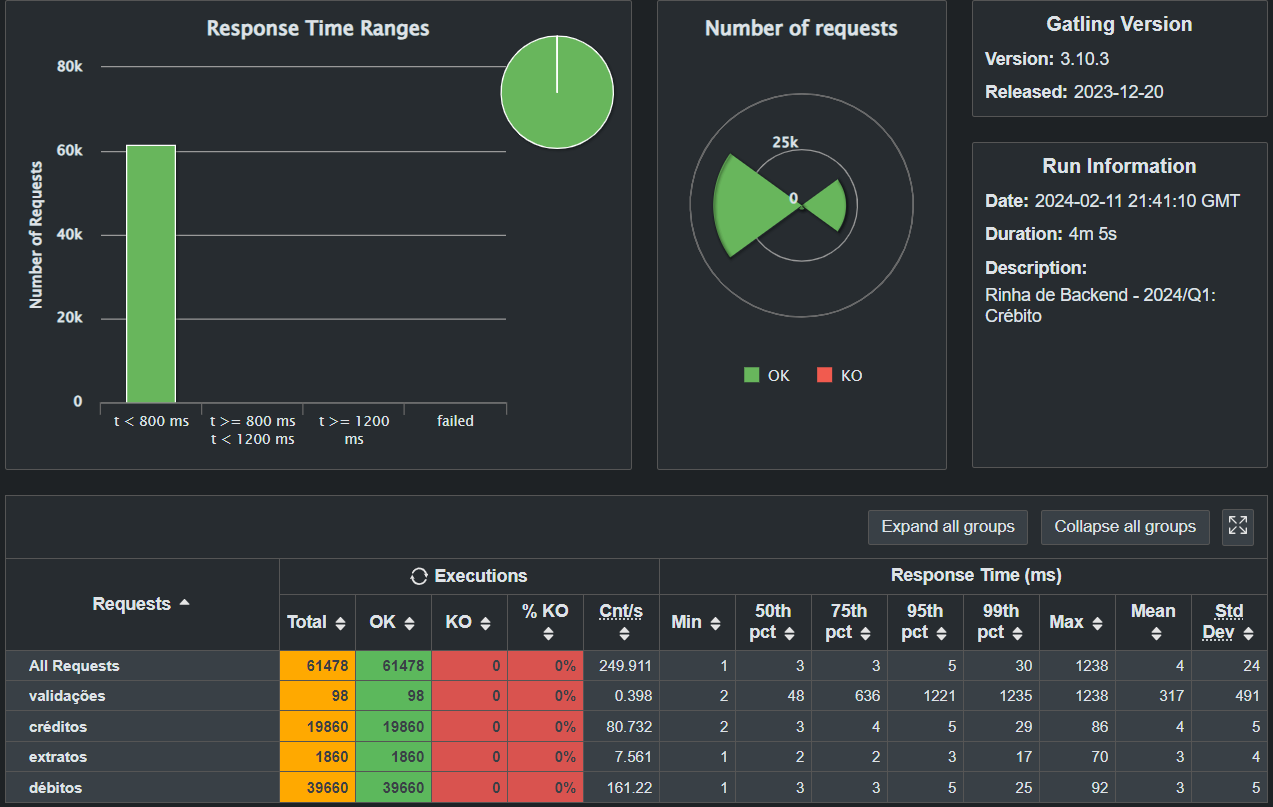
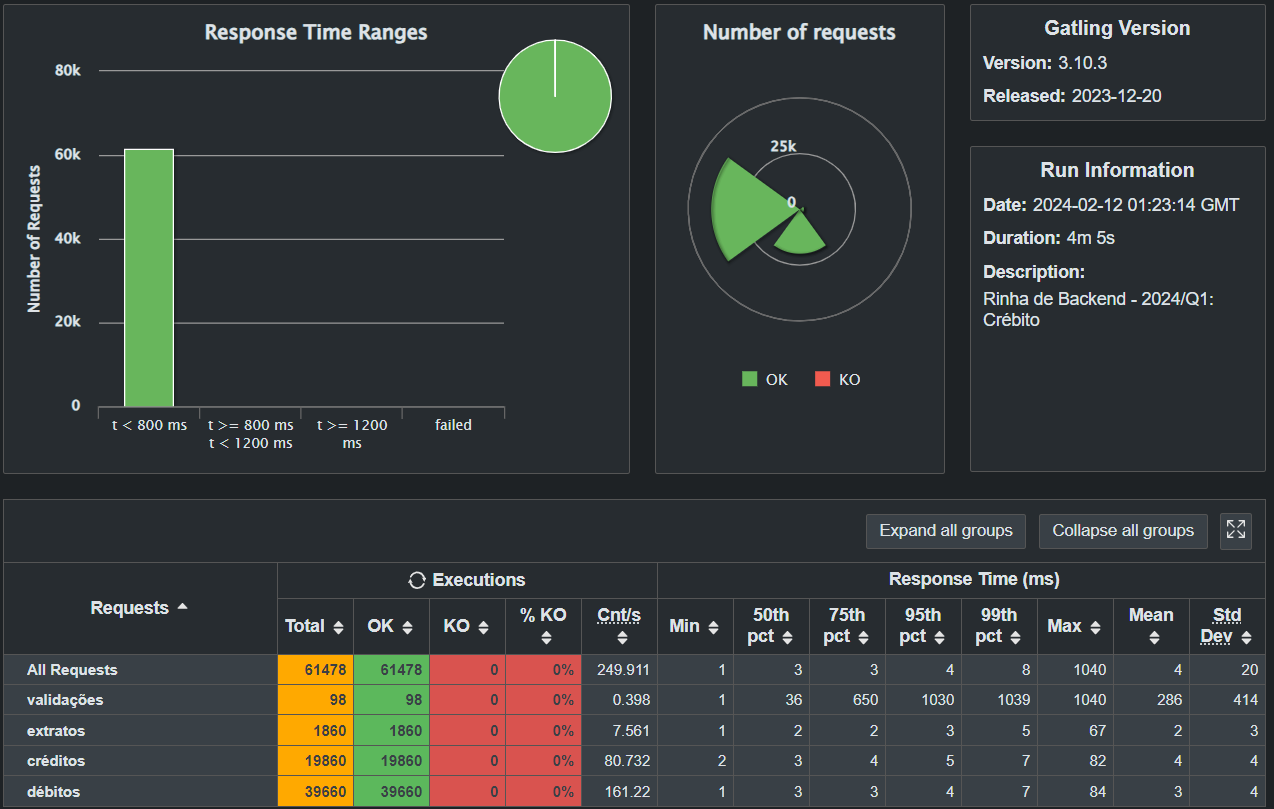
feat: do update instead of select for update

diff --git a/src/Controllers/ClienteController.cs b/src/Controllers/ClienteController.cs
@@ -35,11 +35,17 @@ public class ClienteController : ControllerBase
                 .Take(10)
                 .Select(x => new TransacaoDto
                 {
-                    Valor = x.Tipo == 'c' ? x.Valor : x.Valor * -1,
+                    Valor = x.Valor,
                     Tipo = x.Tipo,
                     Descricao = x.Descricao,
                     RealizadoEm = x.RealizadoEm
                 }));
+    
+    private static readonly Func<AppDbContext, int, Task<Cliente?>> GetCliente
+        = EF.CompileAsyncQuery(
+            (AppDbContext context, int id) => context.Clientes
+                .AsNoTracking()
+                .SingleOrDefault(x => x.Id == id));
 
     [HttpGet("{id:int}/extrato")]
     public async Task<IActionResult> Extrato(int id)
@@ -63,34 +69,32 @@ public class ClienteController : ControllerBase
     public async Task<IActionResult> Post(int id, TransacaoRequestDto transacao)
     {
         var valorTransacao = transacao.Tipo == 'c' ? transacao.Valor : transacao.Valor * -1;
-
-        using var dbTransaction = await _context.Database.BeginTransactionAsync(IsolationLevel.ReadCommitted);
-        
-        var cliente = await _context.Clientes.FromSql($"SELECT * FROM \"Clientes\" WHERE \"Id\" = {id} FOR UPDATE")
-            .SingleOrDefaultAsync();
+        var cliente = await GetCliente(_context, id);
         if (cliente is null)
             return NotFound();
-        cliente.SaldoInicial += valorTransacao;
 
-        if (transacao.Tipo == 'd' && cliente.SaldoInicial * -1 > cliente.Limite)
-        {
-            return UnprocessableEntity("Limite excedido");
-        }
+        using var dbTransaction = await _context.Database.BeginTransactionAsync(IsolationLevel.ReadCommitted);
 
         _context.Transacaos.Add(new Transacao
         {
-            Valor = valorTransacao,
+            Valor = transacao.Valor,
             Tipo = transacao.Tipo,
             Descricao = transacao.Descricao,
             ClienteId = id
         });
+        var result = await _context.Clientes
+            .Where(x => x.Id == id)
+            .Where(x => x.SaldoInicial + valorTransacao >= x.Limite * -1 || valorTransacao > 0)
+            .ExecuteUpdateAsync(x =>
+                x.SetProperty(e => e.SaldoInicial, e => e.SaldoInicial + valorTransacao));
+
+        if (result == 0)
+        {
+            return UnprocessableEntity("Limite excedido");
+        }
         await _context.SaveChangesAsync();
         await dbTransaction.CommitAsync();
-
-        return Ok(new
-        {
-            cliente.Limite,
-            Saldo = cliente.SaldoInicial
-        });
+        cliente = await GetCliente(_context, id);
+        return Ok(new ResultadoSaldo(cliente.SaldoInicial, cliente.Limite));
     }
 }

diff --git a/src/Dtos.cs b/src/Dtos.cs
@@ -15,11 +15,13 @@ public record SaldoDto
     public int Limite { get; set; }
 }
 
-public record TransacaoDto
+public record struct ResultadoSaldo(int Saldo, int Limite);
+
+public record struct TransacaoDto
 {
     public int Valor { get; set; }
     public char Tipo { get; set; }
-    public string Descricao { get; set; } = "";
+    public string Descricao { get; set; }
     public DateTime RealizadoEm { get; set; }
 }
 

diff --git a/src/Program.cs b/src/Program.cs
@@ -34,6 +34,7 @@ builder.Services.AddDbContextPool<AppDbContext>(options =>
     options.UseNpgsql(builder.Configuration.GetConnectionString("AppDbContext"));
     options.EnableThreadSafetyChecks(false);
     options.UseModel(AppDbContextModel.Instance);
+    options.EnableSensitiveDataLogging();
 });
 
 var app = builder.Build();
